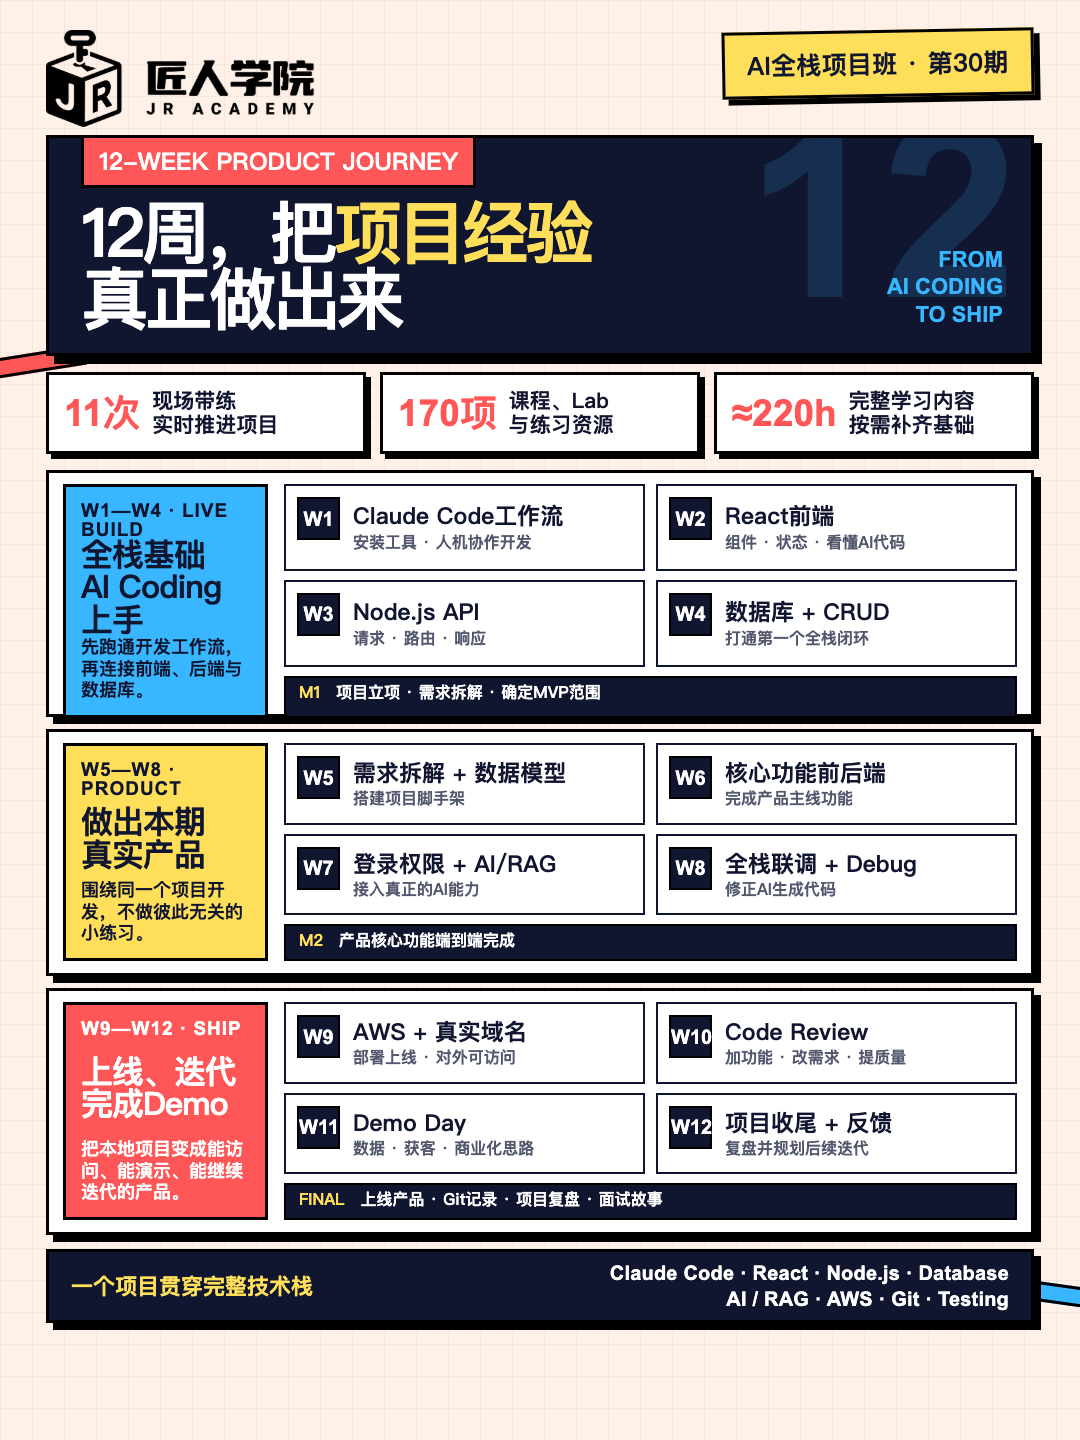
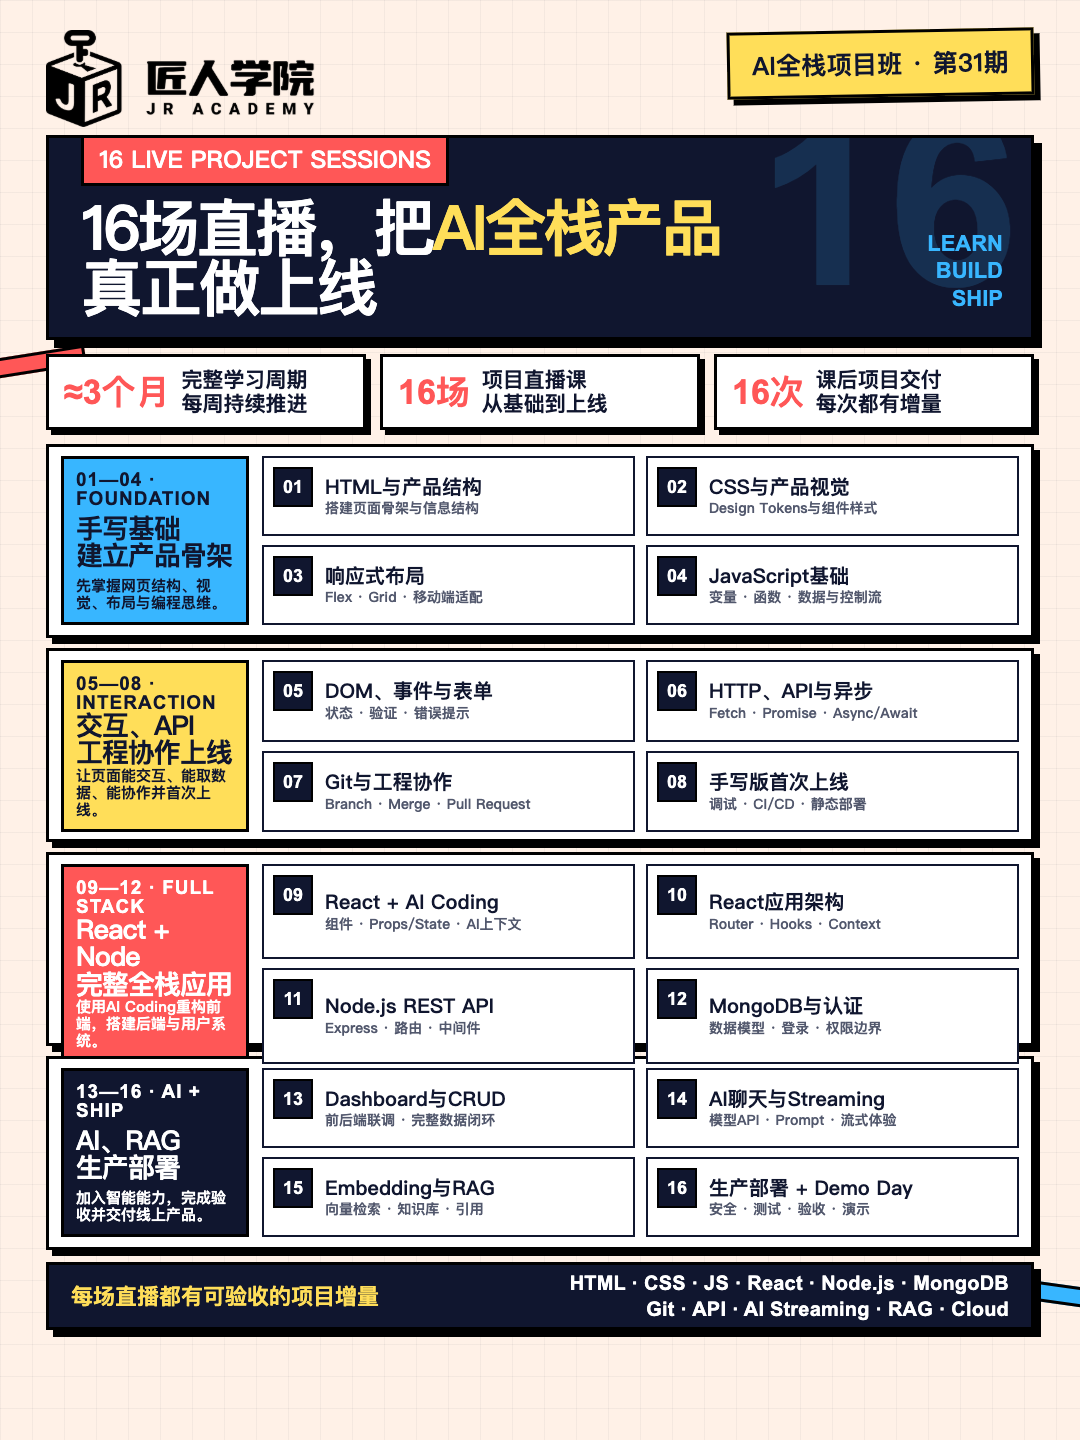
fix: update course poster to cohort 31 and 16 sessions

diff --git a/xhs-content-factory/drafts/2026-10-19/ai-fullstack-project/posters/poster-01-course-map.html b/xhs-content-factory/drafts/2026-10-19/ai-fullstack-project/posters/poster-01-course-map.html
@@ -15,33 +15,34 @@
     .top{height:105px;display:flex;align-items:flex-start;justify-content:space-between}
     .logo{width:270px;height:auto;display:block}
     .edition{background:var(--yellow);border:3px solid var(--black);box-shadow:6px 6px 0 var(--black);padding:13px 22px 12px;font-size:25px;font-weight:900;letter-spacing:.3px;transform:rotate(-1deg)}
-    .hero{height:221px;background:var(--navy);color:var(--white);border:3px solid var(--black);box-shadow:8px 8px 0 var(--black);padding:22px 32px 20px;display:flex;align-items:flex-end;justify-content:space-between;overflow:hidden}
-    .hero:after{content:"12";position:absolute;right:13px;top:-48px;font:900 245px/1 Arial;color:rgba(56,182,255,.16)}
+    .hero{height:205px;background:var(--navy);color:var(--white);border:3px solid var(--black);box-shadow:8px 8px 0 var(--black);padding:20px 32px 18px;display:flex;align-items:flex-end;justify-content:space-between;overflow:hidden}
+    .hero:after{content:"16";position:absolute;right:13px;top:-52px;font:900 235px/1 Arial;color:rgba(56,182,255,.16)}
     .eyebrow{display:inline-block;background:var(--red);color:var(--white);border:3px solid var(--black);padding:7px 15px;font-size:24px;font-weight:900;margin-bottom:12px}
-    h1{margin:0;font-size:68px;line-height:.98;letter-spacing:-4px;font-weight:1000;max-width:790px}
+    h1{margin:0;font-size:62px;line-height:.98;letter-spacing:-3px;font-weight:1000;max-width:790px}
     h1 em{font-style:normal;color:var(--yellow)}
     .hero-side{position:absolute;right:28px;bottom:25px;width:145px;text-align:right;font:900 22px/1.25 Arial;color:var(--blue)}
-    .proof{height:82px;margin-top:16px;display:grid;grid-template-columns:repeat(3,1fr);gap:14px}
+    .proof{height:76px;margin-top:14px;display:grid;grid-template-columns:repeat(3,1fr);gap:14px}
     .proof-item{background:var(--white);border:3px solid var(--black);box-shadow:5px 5px 0 var(--black);padding:9px 15px;display:flex;align-items:center;gap:12px}
-    .proof-item b{font:1000 37px/1 Arial;color:var(--red);white-space:nowrap}
+    .proof-item b{font:1000 34px/1 Arial;color:var(--red);white-space:nowrap}
     .proof-item span{font-size:21px;line-height:1.12;font-weight:900}
-    .journey{margin-top:16px;display:grid;gap:12px}
-    .phase{height:247px;border:3px solid var(--black);box-shadow:7px 7px 0 var(--black);padding:11px 14px 12px;background:var(--white);display:grid;grid-template-columns:205px 1fr;gap:16px}
-    .phase-head{border:3px solid var(--black);padding:14px 15px;display:flex;flex-direction:column;justify-content:space-between}
+    .journey{margin-top:14px;display:grid;gap:10px}
+    .phase{height:194px;border:3px solid var(--black);box-shadow:6px 6px 0 var(--black);padding:9px 12px 10px;background:var(--white);display:grid;grid-template-columns:188px 1fr;gap:13px}
+    .phase-head{border:3px solid var(--black);padding:11px 12px;display:flex;flex-direction:column;justify-content:space-between}
     .phase:nth-child(1) .phase-head{background:var(--blue)}
     .phase:nth-child(2) .phase-head{background:var(--yellow)}
     .phase:nth-child(3) .phase-head{background:var(--red);color:var(--white)}
+    .phase:nth-child(4) .phase-head{background:var(--navy);color:var(--white)}
     .phase-no{font:1000 19px/1 Arial;letter-spacing:1px}
-    .phase-head h2{font-size:32px;line-height:1.01;margin:0;font-weight:1000;letter-spacing:-1px}
-    .phase-head p{margin:0;font-size:18px;line-height:1.2;font-weight:800}
+    .phase-head h2{font-size:27px;line-height:1.01;margin:0;font-weight:1000;letter-spacing:-1px}
+    .phase-head p{margin:0;font-size:15px;line-height:1.15;font-weight:800}
     .weeks{display:grid;grid-template-columns:1fr 1fr;gap:9px 11px}
-    .week{position:relative;border:2px solid var(--navy);padding:8px 11px 7px 67px;min-height:78px;background:#fff;display:flex;flex-direction:column;justify-content:center}
-    .week b{position:absolute;left:11px;top:11px;width:43px;height:43px;border:2px solid var(--black);background:var(--navy);color:#fff;display:grid;place-items:center;font:1000 20px/1 Arial}
-    .week strong{display:block;font-size:23px;line-height:1.1;font-weight:1000}
-    .week small{display:block;margin-top:4px;font-size:16px;line-height:1.12;font-weight:750;color:#52586d}
+    .week{position:relative;border:2px solid var(--navy);padding:7px 9px 6px 61px;min-height:78px;background:#fff;display:flex;flex-direction:column;justify-content:center}
+    .week b{position:absolute;left:9px;top:9px;width:40px;height:40px;border:2px solid var(--black);background:var(--navy);color:#fff;display:grid;place-items:center;font:1000 18px/1 Arial}
+    .week strong{display:block;font-size:20px;line-height:1.08;font-weight:1000}
+    .week small{display:block;margin-top:3px;font-size:14px;line-height:1.1;font-weight:750;color:#52586d}
     .milestone{grid-column:1/-1;background:var(--navy);color:#fff;border:2px solid var(--black);padding:6px 13px;font-size:16px;line-height:1.05;font-weight:900}
     .milestone i{font-style:normal;color:var(--yellow)}
-    .footer{height:74px;margin-top:14px;background:var(--navy);border:3px solid var(--black);box-shadow:7px 7px 0 var(--black);color:#fff;padding:10px 22px;display:flex;align-items:center;justify-content:space-between}
+    .footer{height:68px;margin-top:12px;background:var(--navy);border:3px solid var(--black);box-shadow:7px 7px 0 var(--black);color:#fff;padding:8px 22px;display:flex;align-items:center;justify-content:space-between}
     .footer-title{font-size:22px;font-weight:900;color:var(--yellow)}
     .stack{font:850 20px/1.3 Arial,"PingFang SC",sans-serif;letter-spacing:.2px;text-align:right}
     .corner{position:absolute;z-index:0;width:120px;height:20px;background:var(--red);border:3px solid var(--black)}
@@ -54,61 +55,68 @@
     <div class="corner a"></div><div class="corner b"></div>
     <header class="top">
       <img class="logo" src="logo.png" alt="匠人学院">
-      <div class="edition">AI全栈项目班 · 第30期</div>
+      <div class="edition">AI全栈项目班 · 第31期</div>
     </header>
 
     <section class="hero">
       <div>
-        <div class="eyebrow">12-WEEK PRODUCT JOURNEY</div>
-        <h1>12周，把<em>项目经验</em><br>真正做出来</h1>
+        <div class="eyebrow">16 LIVE PROJECT SESSIONS</div>
+        <h1>16场直播，把<em>AI全栈产品</em><br>真正做上线</h1>
       </div>
-      <div class="hero-side">FROM<br>AI CODING<br>TO SHIP</div>
+      <div class="hero-side">LEARN<br>BUILD<br>SHIP</div>
     </section>
 
     <section class="proof">
-      <div class="proof-item"><b>11次</b><span>现场带练<br>实时推进项目</span></div>
-      <div class="proof-item"><b>170项</b><span>课程、Lab<br>与练习资源</span></div>
-      <div class="proof-item"><b>≈220h</b><span>完整学习内容<br>按需补齐基础</span></div>
+      <div class="proof-item"><b>≈3个月</b><span>完整学习周期<br>每周持续推进</span></div>
+      <div class="proof-item"><b>16场</b><span>项目直播课<br>从基础到上线</span></div>
+      <div class="proof-item"><b>16次</b><span>课后项目交付<br>每次都有增量</span></div>
     </section>
 
     <section class="journey">
       <article class="phase">
-        <div class="phase-head"><div class="phase-no">W1—W4 · LIVE BUILD</div><h2>全栈基础<br>AI Coding上手</h2><p>先跑通开发工作流，再连接前端、后端与数据库。</p></div>
+        <div class="phase-head"><div class="phase-no">01—04 · FOUNDATION</div><h2>手写基础<br>建立产品骨架</h2><p>先掌握网页结构、视觉、布局与编程思维。</p></div>
         <div class="weeks">
-          <div class="week"><b>W1</b><strong>Claude Code工作流</strong><small>安装工具 · 人机协作开发</small></div>
-          <div class="week"><b>W2</b><strong>React前端</strong><small>组件 · 状态 · 看懂AI代码</small></div>
-          <div class="week"><b>W3</b><strong>Node.js API</strong><small>请求 · 路由 · 响应</small></div>
-          <div class="week"><b>W4</b><strong>数据库 + CRUD</strong><small>打通第一个全栈闭环</small></div>
-          <div class="milestone"><i>M1</i>　项目立项 · 需求拆解 · 确定MVP范围</div>
+          <div class="week"><b>01</b><strong>HTML与产品结构</strong><small>搭建页面骨架与信息结构</small></div>
+          <div class="week"><b>02</b><strong>CSS与产品视觉</strong><small>Design Tokens与组件样式</small></div>
+          <div class="week"><b>03</b><strong>响应式布局</strong><small>Flex · Grid · 移动端适配</small></div>
+          <div class="week"><b>04</b><strong>JavaScript基础</strong><small>变量 · 函数 · 数据与控制流</small></div>
         </div>
       </article>
 
       <article class="phase">
-        <div class="phase-head"><div class="phase-no">W5—W8 · PRODUCT</div><h2>做出本期<br>真实产品</h2><p>围绕同一个项目开发，不做彼此无关的小练习。</p></div>
+        <div class="phase-head"><div class="phase-no">05—08 · INTERACTION</div><h2>交互、API<br>工程协作上线</h2><p>让页面能交互、能取数据、能协作并首次上线。</p></div>
         <div class="weeks">
-          <div class="week"><b>W5</b><strong>需求拆解 + 数据模型</strong><small>搭建项目脚手架</small></div>
-          <div class="week"><b>W6</b><strong>核心功能前后端</strong><small>完成产品主线功能</small></div>
-          <div class="week"><b>W7</b><strong>登录权限 + AI/RAG</strong><small>接入真正的AI能力</small></div>
-          <div class="week"><b>W8</b><strong>全栈联调 + Debug</strong><small>修正AI生成代码</small></div>
-          <div class="milestone"><i>M2</i>　产品核心功能端到端完成</div>
+          <div class="week"><b>05</b><strong>DOM、事件与表单</strong><small>状态 · 验证 · 错误提示</small></div>
+          <div class="week"><b>06</b><strong>HTTP、API与异步</strong><small>Fetch · Promise · Async/Await</small></div>
+          <div class="week"><b>07</b><strong>Git与工程协作</strong><small>Branch · Merge · Pull Request</small></div>
+          <div class="week"><b>08</b><strong>手写版首次上线</strong><small>调试 · CI/CD · 静态部署</small></div>
         </div>
       </article>
 
       <article class="phase">
-        <div class="phase-head"><div class="phase-no">W9—W12 · SHIP</div><h2>上线、迭代<br>完成Demo</h2><p>把本地项目变成能访问、能演示、能继续迭代的产品。</p></div>
+        <div class="phase-head"><div class="phase-no">09—12 · FULL STACK</div><h2>React + Node<br>完整全栈应用</h2><p>使用AI Coding重构前端，搭建后端与用户系统。</p></div>
         <div class="weeks">
-          <div class="week"><b>W9</b><strong>AWS + 真实域名</strong><small>部署上线 · 对外可访问</small></div>
-          <div class="week"><b>W10</b><strong>Code Review</strong><small>加功能 · 改需求 · 提质量</small></div>
-          <div class="week"><b>W11</b><strong>Demo Day</strong><small>数据 · 获客 · 商业化思路</small></div>
-          <div class="week"><b>W12</b><strong>项目收尾 + 反馈</strong><small>复盘并规划后续迭代</small></div>
-          <div class="milestone"><i>FINAL</i>　上线产品 · Git记录 · 项目复盘 · 面试故事</div>
+          <div class="week"><b>09</b><strong>React + AI Coding</strong><small>组件 · Props/State · AI上下文</small></div>
+          <div class="week"><b>10</b><strong>React应用架构</strong><small>Router · Hooks · Context</small></div>
+          <div class="week"><b>11</b><strong>Node.js REST API</strong><small>Express · 路由 · 中间件</small></div>
+          <div class="week"><b>12</b><strong>MongoDB与认证</strong><small>数据模型 · 登录 · 权限边界</small></div>
+        </div>
+      </article>
+
+      <article class="phase">
+        <div class="phase-head"><div class="phase-no">13—16 · AI + SHIP</div><h2>AI、RAG<br>生产部署</h2><p>加入智能能力，完成验收并交付线上产品。</p></div>
+        <div class="weeks">
+          <div class="week"><b>13</b><strong>Dashboard与CRUD</strong><small>前后端联调 · 完整数据闭环</small></div>
+          <div class="week"><b>14</b><strong>AI聊天与Streaming</strong><small>模型API · Prompt · 流式体验</small></div>
+          <div class="week"><b>15</b><strong>Embedding与RAG</strong><small>向量检索 · 知识库 · 引用</small></div>
+          <div class="week"><b>16</b><strong>生产部署 + Demo Day</strong><small>安全 · 测试 · 验收 · 演示</small></div>
         </div>
       </article>
     </section>
 
     <footer class="footer">
-      <div class="footer-title">一个项目贯穿完整技术栈</div>
-      <div class="stack">Claude Code · React · Node.js · Database<br>AI / RAG · AWS · Git · Testing</div>
+      <div class="footer-title">每场直播都有可验收的项目增量</div>
+      <div class="stack">HTML · CSS · JS · React · Node.js · MongoDB<br>Git · API · AI Streaming · RAG · Cloud</div>
     </footer>
   </main>
 </body>
